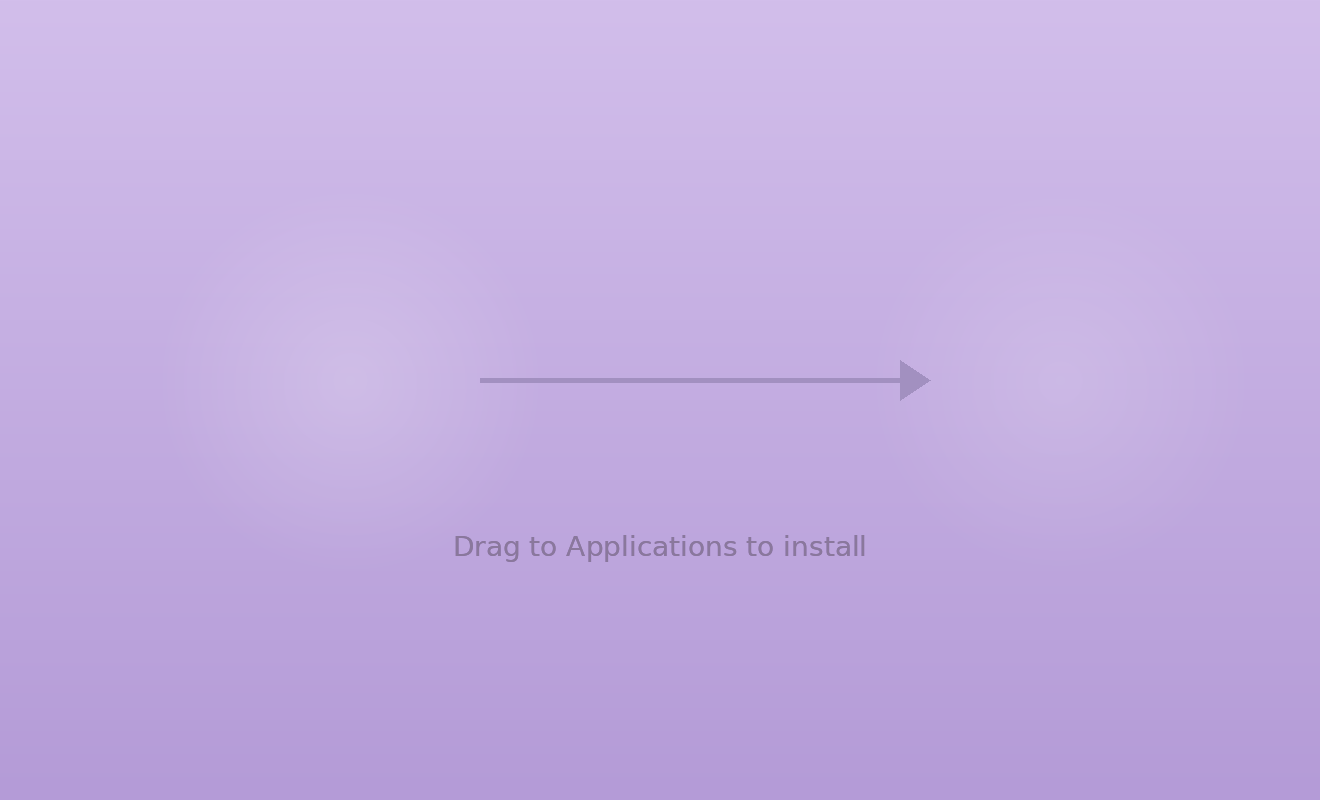
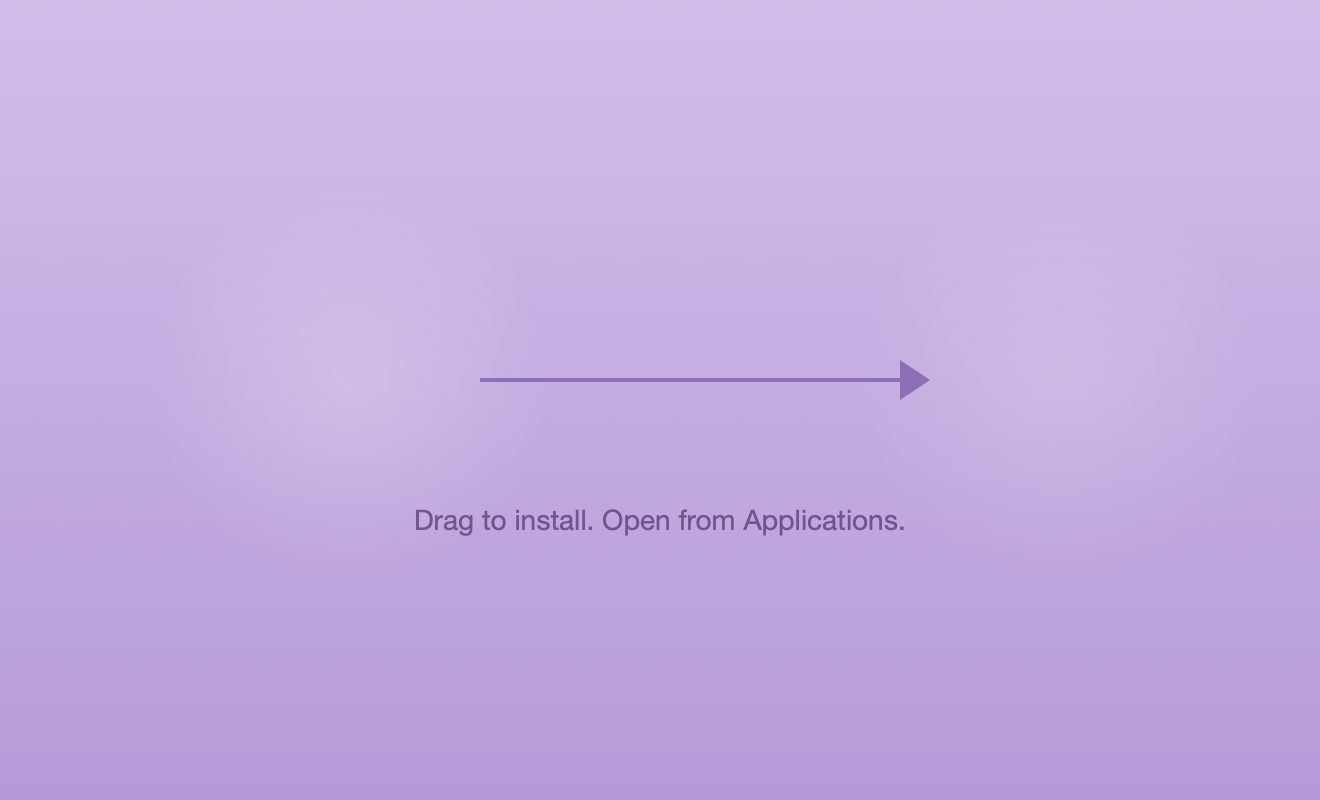
fix: update DMG installer copy to prompt opening from Applications

Changed region(s): [[0.3106, 0.625, 0.6833, 0.7188], [0.3727, 0.4375, 0.7144, 0.5]]

diff --git a/clients/macos/dmg/generate-background.swift b/clients/macos/dmg/generate-background.swift
@@ -142,7 +142,7 @@ let textY = CGFloat(iconCenterY + 150)  // Below the icons
 let dragFont = CTFontCreateWithName("Helvetica Neue" as CFString, 28.0, nil)
 let dragColor = CGColor(colorSpace: colorSpace, components: rgb(60, 30, 90, 0.6))!
 
-drawCenteredText("Drag to Applications to install", centerX: CGFloat(width) / 2.0, y: textY, font: dragFont, color: dragColor)
+drawCenteredText("Drag to install. Open from Applications.", centerX: CGFloat(width) / 2.0, y: textY, font: dragFont, color: dragColor)
 
 // --- Generate output ---
 guard let image = ctx.makeImage() else {
